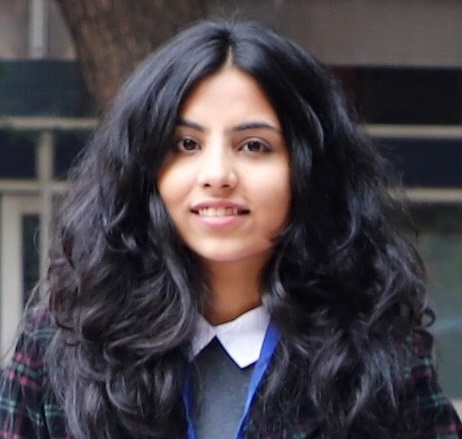
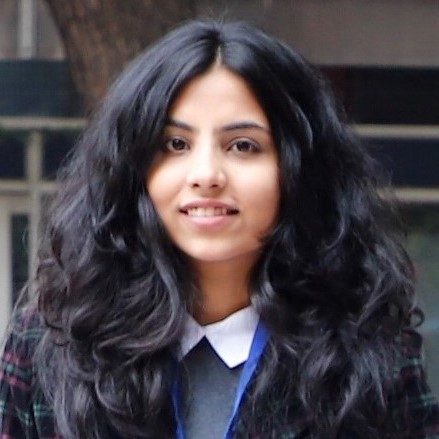
team section fix

diff --git a/index.html b/index.html
@@ -633,7 +633,7 @@
               <div class="flip-card">
                 <div class="flip-card-inner">
                   <div class="flip-card-front">
-                    <img src="images/Team/stuti.jpg" alt="Avatar" style="width:300px;height:300px;">
+                    <img src="images/Team/stuti.jpg" alt="Avatar" style="width:auto;height:180px;">
                   </div>
                   <div class="flip-card-back">
                     <a href="mailto:hello.wuc@gmail.com"><i class="fa fa-envelope" aria-hidden="true"></i> Mail Stuti </a>
@@ -661,7 +661,7 @@
               <div class="flip-card">
                 <div class="flip-card-inner">
                   <div class="flip-card-front">
-                    <img src="images/Team/vidushi.jpg" alt="Avatar" style="width:300px;height:300px;">
+                    <img src="images/Team/vidushi.jpg" alt="Avatar" style="width:auto;height:180px;">
                   </div>
                   <div class="flip-card-back">
                     <a href="mailto:hello.wuc@gmail.com"><i class="fa fa-envelope" aria-hidden="true"></i> Mail Vidushi </a>
@@ -688,7 +688,7 @@
               <div class="flip-card">
                 <div class="flip-card-inner">
                   <div class="flip-card-front">
-                    <img src="images/Team/rishika.jpg" alt="Avatar" style="width:300px;height:300px;">
+                    <img src="images/Team/rishika.jpg" alt="Avatar" style="width:auto;height:180px;">
                   </div>
                   <div class="flip-card-back">
                     <a href="mailto:hello.wuc@gmail.com"><i class="fa fa-envelope" aria-hidden="true"></i> Mail Rishika </a>
@@ -716,7 +716,7 @@
               <div class="flip-card">
                 <div class="flip-card-inner">
                   <div class="flip-card-front">
-                    <img src="images/Team/vaishali.jpg" alt="Avatar" style="width:300px;height:300px;">
+                    <img src="images/Team/vaishali.jpg" alt="Avatar" style="width:auto;height:180px;">
                   </div>
                   <div class="flip-card-back">
                     <a href="mailto:hello.wuc@gmail.com"><i class="fa fa-envelope" aria-hidden="true"></i> Mail Vaishali </a>
@@ -744,7 +744,7 @@
               <div class="flip-card">
                 <div class="flip-card-inner">
                   <div class="flip-card-front">
-                    <img src="images/Team/divyanshi.jpg" alt="Avatar" style="width:300px;height:300px;">
+                    <img src="images/Team/divyanshi.jpg" alt="Avatar" style="width:auto;height:180px;">
                   </div>
                   <div class="flip-card-back">
                     <a href="mailto:hello.wuc@gmail.com"><i class="fa fa-envelope" aria-hidden="true"></i> Mail Divyanshi </a>
@@ -771,7 +771,7 @@
               <div class="flip-card">
                 <div class="flip-card-inner">
                   <div class="flip-card-front">
-                    <img src="images/Team/jahnavi.jpg" alt="Avatar" style="width:300px;height:300px;">
+                    <img src="images/Team/jahnavi.jpg" alt="Avatar" style="width:auto;height:180px;">
                   </div>
                   <div class="flip-card-back">
                     <a href="mailto:hello.wuc@gmail.com"><i class="fa fa-envelope" aria-hidden="true"></i> Mail Janhavi </a>
@@ -799,7 +799,7 @@
               <div class="flip-card">
                 <div class="flip-card-inner">
                   <div class="flip-card-front">
-                    <img src="images/Team/sidra.png" alt="Avatar" style="width:300px;height:300px;">
+                    <img src="images/Team/sidra.png" alt="Avatar" style="width:auto;height:180px;">
                   </div>
                   <div class="flip-card-back">
                     <a href="mailto:hello.wuc@gmail.com"><i class="fa fa-envelope" aria-hidden="true"></i> Mail Sidra </a>
@@ -827,7 +827,7 @@
               <div class="flip-card">
                 <div class="flip-card-inner">
                   <div class="flip-card-front">
-                    <img src="images/Team/poonam.jpg" alt="Avatar" style="width:300px;height:300px;">
+                    <img src="images/Team/poonam.jpg" alt="Avatar" style="width:auto;height:180px;">
                   </div>
                   <div class="flip-card-back">
                     <a href="mailto:hello.wuc@gmail.com"><i class="fa fa-envelope" aria-hidden="true"></i> Mail Poonam </a>
@@ -855,7 +855,7 @@
               <div class="flip-card">
                 <div class="flip-card-inner">
                   <div class="flip-card-front">
-                    <img src="images/Team/dhriti.jpg" alt="Avatar" style="width:300px;height:300px;">
+                    <img src="images/Team/dhriti.jpg" alt="Avatar" style="width:auto;height:180px;">
                   </div>
                   <div class="flip-card-back">
                     <a href="mailto:hello.wuc@gmail.com"><i class="fa fa-envelope" aria-hidden="true"></i> Mail Dhriti </a>
@@ -883,7 +883,7 @@
               <div class="flip-card">
                 <div class="flip-card-inner">
                   <div class="flip-card-front">
-                    <img src="images/Team/priyall.jpg" alt="Avatar" style="width:300px;height:300px;">
+                    <img src="images/Team/priyall.jpg" alt="Avatar" style="width:auto;height:180px;">
                   </div>
                   <div class="flip-card-back">
                     <a href="mailto:hello.wuc@gmail.com"><i class="fa fa-envelope" aria-hidden="true"></i> Mail Priyal </a>
@@ -911,7 +911,7 @@
               <div class="flip-card">
                 <div class="flip-card-inner">
                   <div class="flip-card-front">
-                    <img src="images/Team/khushboo.jpg" alt="Avatar" style="width:300px;height:300px;">
+                    <img src="images/Team/khushboo.jpg" alt="Avatar" style="width:auto;height:180px;">
                   </div>
                   <div class="flip-card-back">
                     <a href="mailto:hello.wuc@gmail.com"><i class="fa fa-envelope" aria-hidden="true"></i> Mail Khushboo </a>
@@ -939,7 +939,7 @@
               <div class="flip-card">
                 <div class="flip-card-inner">
                   <div class="flip-card-front">
-                    <img src="images/Team/daksh.jpg" alt="Avatar" style="width:300px;height:300px;">
+                    <img src="images/Team/daksh.jpg" alt="Avatar" style="width:auto;height:180px;">
                   </div>
                   <div class="flip-card-back">
                     <a href="mailto:hello.wuc@gmail.com"><i class="fa fa-envelope" aria-hidden="true"></i> Mail Daksh </a>

diff --git a/css/team.css b/css/team.css
@@ -110,10 +110,10 @@
 
 .single-team .social-list li a {
   display: block;
-  height: 34px;
-  line-height: 34px;
+  height: 24px;
+  line-height: 24px;
   text-align: center;
-  width: 34px;
+  width: 24px;
   margin: 2px;
   color: #61D2B4;
   font-size: 14px;
